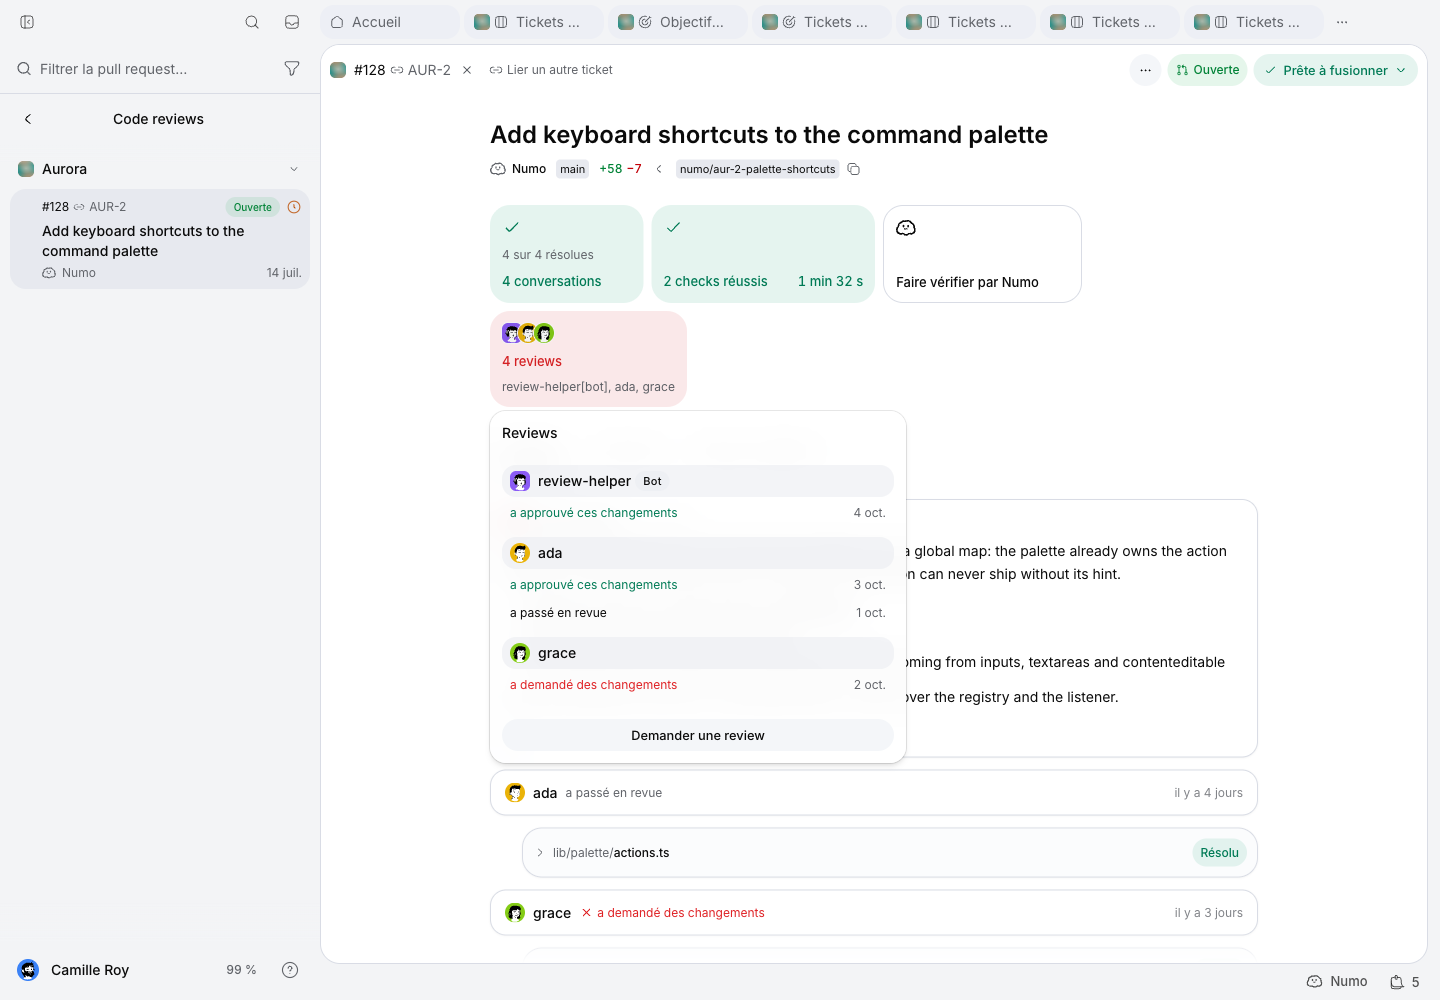
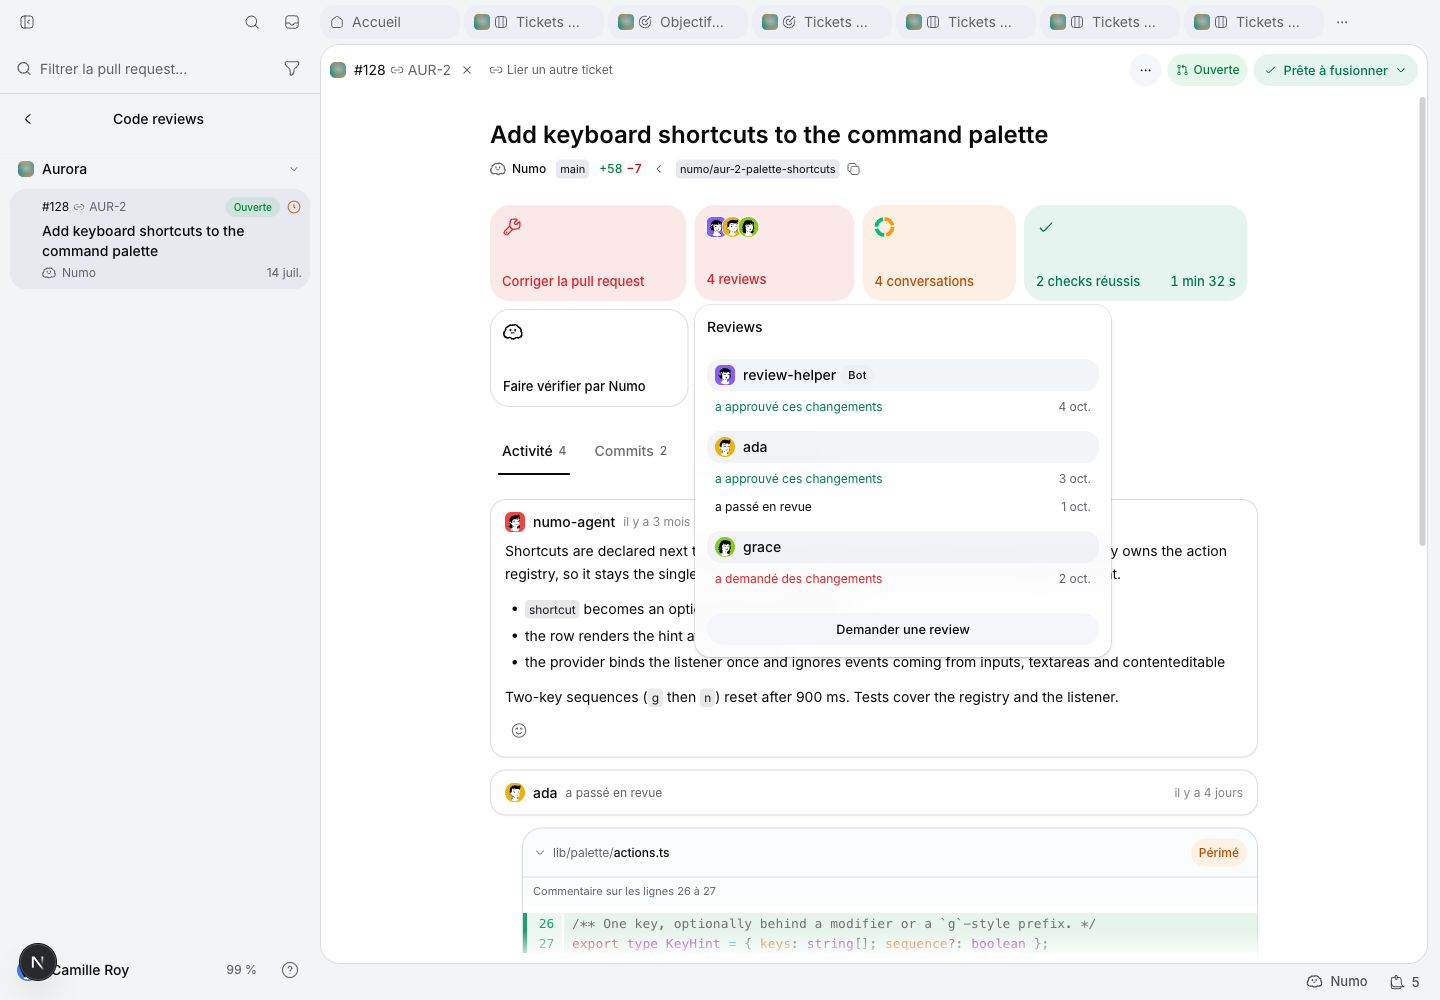
fix: refine pull request card ordering and content

diff --git a/components/pull-requests/pr-readiness-cards.tsx b/components/pull-requests/pr-readiness-cards.tsx
@@ -2,7 +2,7 @@
 
 import { HugeiconsIcon } from "@hugeicons/react";
 import { AppIcon } from "@/components/icon";
-import { AlertCircleIcon, ArrowUpRight01Icon, GitBranchIcon, GitMergeIcon, GitPullRequestDraftIcon, Shield01Icon, CheckIcon, UserRoundCheckIcon as UserRoundCheck, ViewIcon, Wrench01Icon } from "@hugeicons/core-free-icons";
+import { AlertCircleIcon, ArrowUpRight01Icon, BubbleChatIcon, GitBranchIcon, GitMergeIcon, GitPullRequestDraftIcon, Shield01Icon, CheckIcon, UserRoundCheckIcon as UserRoundCheck, ViewIcon, Wrench01Icon } from "@hugeicons/core-free-icons";
 import { useEffect, useState, type ReactNode } from "react";
 import { useFormatter, useNow, useTranslations } from "next-intl";
 import {
@@ -12,7 +12,10 @@ import {
   cn,
 } from "mangue-ui";
 
-import { PrReviewsCard } from "@/components/pull-requests/pr-reviews-card";
+import {
+  PrReviewsCard,
+  reviewCardTone,
+} from "@/components/pull-requests/pr-reviews-card";
 import type { PrTimelineEvent } from "@/lib/pr-timeline";
 import { AppTooltip } from "@/components/ui/app-tooltip";
 import { CheckLogo } from "@/components/pull-requests/pr-check-logo";
@@ -117,7 +120,6 @@ interface PrStatusCard {
   id: string;
   tone: PrStatusCardTone;
   title: string;
-  subtitle?: string;
   /** Final duration, frozen. `null` = the card carries no time. */
   durationMs: number | null;
   /** Live timer — the duration recomputes on every tick until it settles. */
@@ -231,23 +233,27 @@ export function PrStatusCards(props: PrStatusCardsProps) {
       data-testid="pr-status-cards"
       className="flex max-w-full flex-wrap items-stretch gap-2"
     >
-      {cards.map(({ card, checksCard }) => (
-        <PrStatusCardView
-          key={card.id}
-          card={card}
-          now={now}
-          checks={checksCard ? props.checks : null}
-          provider={props.provider}
-          checksOpen={props.checksOpen}
-          onChecksOpenChange={props.onChecksOpenChange}
-        />
-      ))}
-      <PrReviewsCard
-        timeline={props.timeline}
-        requestedReviewers={props.requestedReviewers}
-        canRequest={props.canRequestReviewer}
-        onRequest={props.onRequestReviewer}
-      />
+      {cards.map(({ card, checksCard }) =>
+        card.id === "reviews" ? (
+          <PrReviewsCard
+            key={card.id}
+            timeline={props.timeline}
+            requestedReviewers={props.requestedReviewers}
+            canRequest={props.canRequestReviewer}
+            onRequest={props.onRequestReviewer}
+          />
+        ) : (
+          <PrStatusCardView
+            key={card.id}
+            card={card}
+            now={now}
+            checks={checksCard ? props.checks : null}
+            provider={props.provider}
+            checksOpen={props.checksOpen}
+            onChecksOpenChange={props.onChecksOpenChange}
+          />
+        ),
+      )}
     </div>
   );
 }
@@ -688,13 +694,6 @@ function buildStatusCards(
           ? "success"
           : "progress",
     title: t("cardConversations", { count: conversationThreads.length }),
-    subtitle:
-      conversationThreads.length > 0
-        ? t("conversationsProgress", {
-            resolved: resolvedCount,
-            total: conversationThreads.length,
-          })
-        : t("noConversations"),
     durationMs: null,
     startedAt: null,
     donutParts:
@@ -712,15 +711,23 @@ function buildStatusCards(
     hoverLabel: t("viewConversations"),
     onSelect: props.onOpenConversations,
   });
+  push({
+    id: "reviews",
+    tone: reviewCardTone(props.timeline, props.requestedReviewers),
+    title: t("reviewsTitle"),
+    durationMs: null,
+    startedAt: null,
+    donutParts: null,
+    avatars: null,
+    iconKind: "review_requested",
+  });
 
   return cards.sort((a, b) => rankCard(a.card) - rankCard(b.card));
 }
 
-/** The reading order of the cards: a blocking fix leads, the unresolved
-    conversations follow (the human words blocking the merge come before any
-    machine state), then errors before in-progress work before settled
-    stories. The sort is stable, so cards of the same verdict keep the
-    order they were built in. */
+/** A blocking fix leads, then errors, in-progress work, success and neutral
+    cards. Numo verification closes the list. The stable sort preserves the
+    construction order within each tone. */
 const TONE_RANK: Record<PrStatusCardTone, number> = {
   danger: 20,
   progress: 30,
@@ -730,7 +737,7 @@ const TONE_RANK: Record<PrStatusCardTone, number> = {
 
 function rankCard(card: PrStatusCard): number {
   if (card.id === "fix") return 0;
-  if (card.iconKind === "conversations") return 10;
+  if (card.id === "numo-review") return 60;
   return TONE_RANK[card.tone];
 }
 
@@ -767,6 +774,8 @@ function HoverWordOverlay({
 }
 
 function blockerIcon(kind: ReadinessBlocker["kind"]) {  switch (kind) {
+    case "conversations":
+      return <HugeiconsIcon icon={BubbleChatIcon} />;
     case "draft":
       return <HugeiconsIcon icon={GitPullRequestDraftIcon} />;
     case "review_requested":
@@ -849,7 +858,6 @@ function PrStatusCardView({
           blockerIcon(card.iconKind)
         )}
       </span>
-      {card.subtitle ? <span className="text-xs text-muted-foreground">{card.subtitle}</span> : null}
       {/* Title and timer read together, in the same voice: the time is part
           of what the card says, not metadata. */}
       <p

diff --git a/components/pull-requests/pr-reviews-card.tsx b/components/pull-requests/pr-reviews-card.tsx
@@ -17,6 +17,21 @@ const VERDICT: Record<PrReviewState, MessageKey<"PullRequests">> = {
   dismissed: "timelineReviewDismissedState",
 };
 
+export function reviewCardTone(
+  timeline: PrTimelineEvent[],
+  requestedReviewers: { login: string; avatar_url: string | null }[],
+): "danger" | "success" | "neutral" {
+  const latest = reviewerReviewGroups(timeline).map((group) => group[0]);
+  if (latest.some((review) => review.reviewState === "changes_requested")) {
+    return "danger";
+  }
+  return latest.length > 0 &&
+    latest.every((review) => review.reviewState === "approved") &&
+    requestedReviewers.length === 0
+    ? "success"
+    : "neutral";
+}
+
 export function PrReviewsCard({
   timeline,
   requestedReviewers,
@@ -33,18 +48,12 @@ export function PrReviewsCard({
   const groups = reviewerReviewGroups(timeline);
   const count = groups.reduce((total, group) => total + group.length, 0);
   const latest = groups.map((group) => group[0]);
-  const danger = latest.some(
-    (review) => review.reviewState === "changes_requested",
-  );
-  const success =
-    latest.length > 0 &&
-    latest.every((review) => review.reviewState === "approved") &&
-    requestedReviewers.length === 0;
+  const tone = reviewCardTone(timeline, requestedReviewers);
   const className = cn(
     "flex h-24 min-w-40 max-w-full flex-col gap-2 rounded-xl p-3 text-left",
-    danger
+    tone === "danger"
       ? "bg-destructive/10 text-destructive"
-      : success
+      : tone === "success"
         ? "bg-emerald-600/10 text-emerald-700 dark:text-emerald-400"
         : "border border-border bg-card text-foreground",
   );
@@ -67,13 +76,6 @@ export function PrReviewsCard({
       </span>
       <span className="mt-auto text-[13px] font-medium">
         {t("cardReviews", { count })}
-      </span>
-      <span className="max-w-60 truncate text-xs text-muted-foreground">
-        {count === 0
-          ? t("noReviews")
-          : latest
-              .map((review) => review.actor?.login ?? t("unknownReviewer"))
-              .join(", ")}
       </span>
     </>
   );
